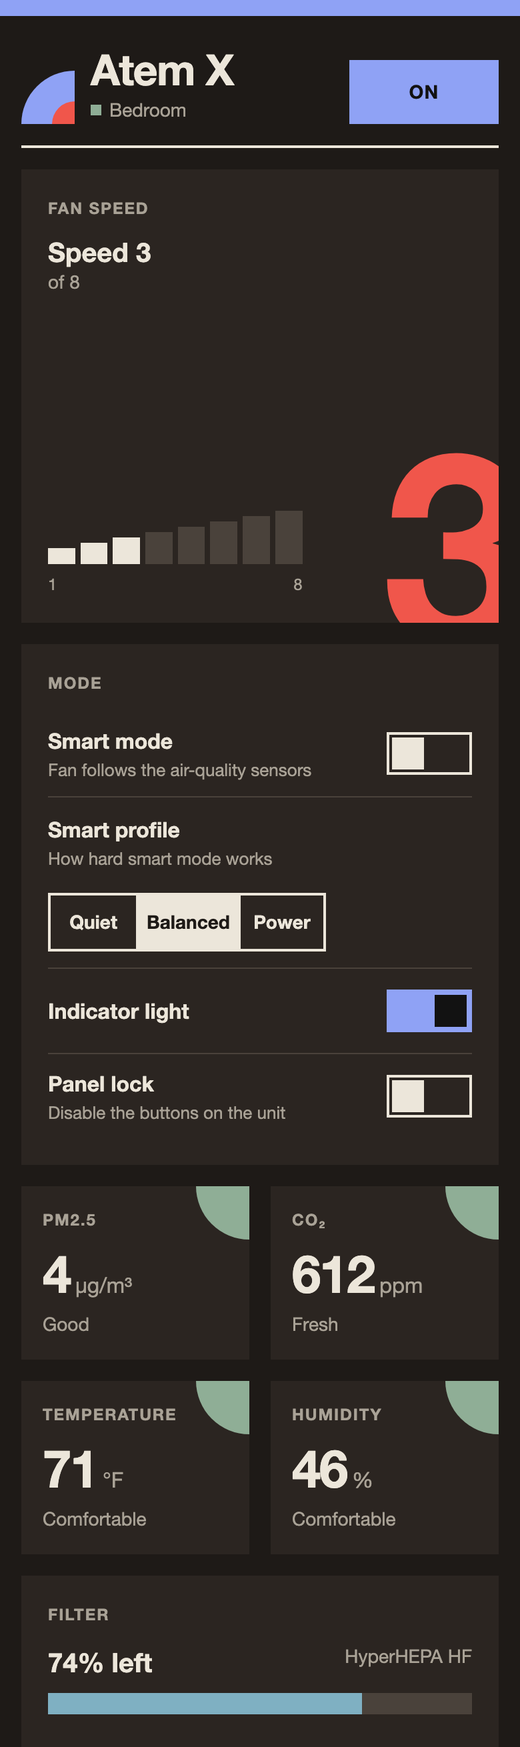
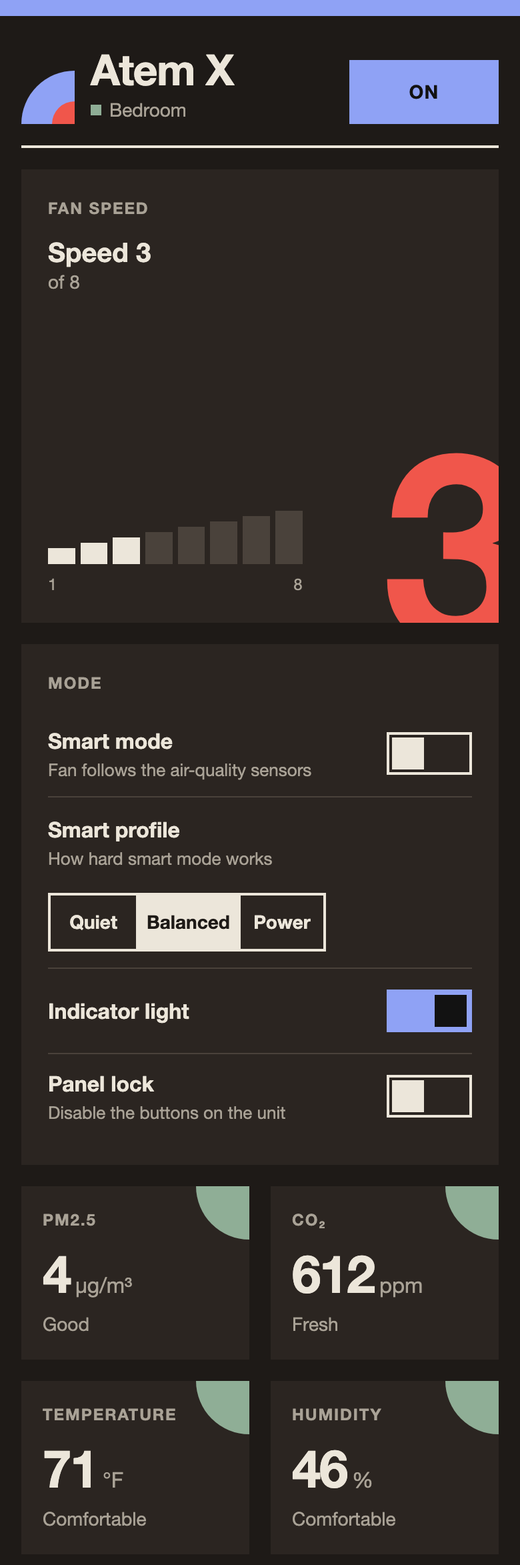
docs: crop phone screenshot to match the desktop one's height

diff --git a/README.md b/README.md
@@ -14,7 +14,7 @@ It's a ~4 MB container that idles at a few MB of RAM.
 
 <p>
   <img src="docs/desktop.png" alt="Web UI on desktop: fan speed, mode, air-quality readings, filter life and Matter pairing code" width="73%">
-  <img src="docs/phone.png" alt="Web UI on a phone in dark mode" width="24%">
+  <img src="docs/phone.png" alt="Web UI on a phone in dark mode" width="22.5%">
 </p>
 
 ```
